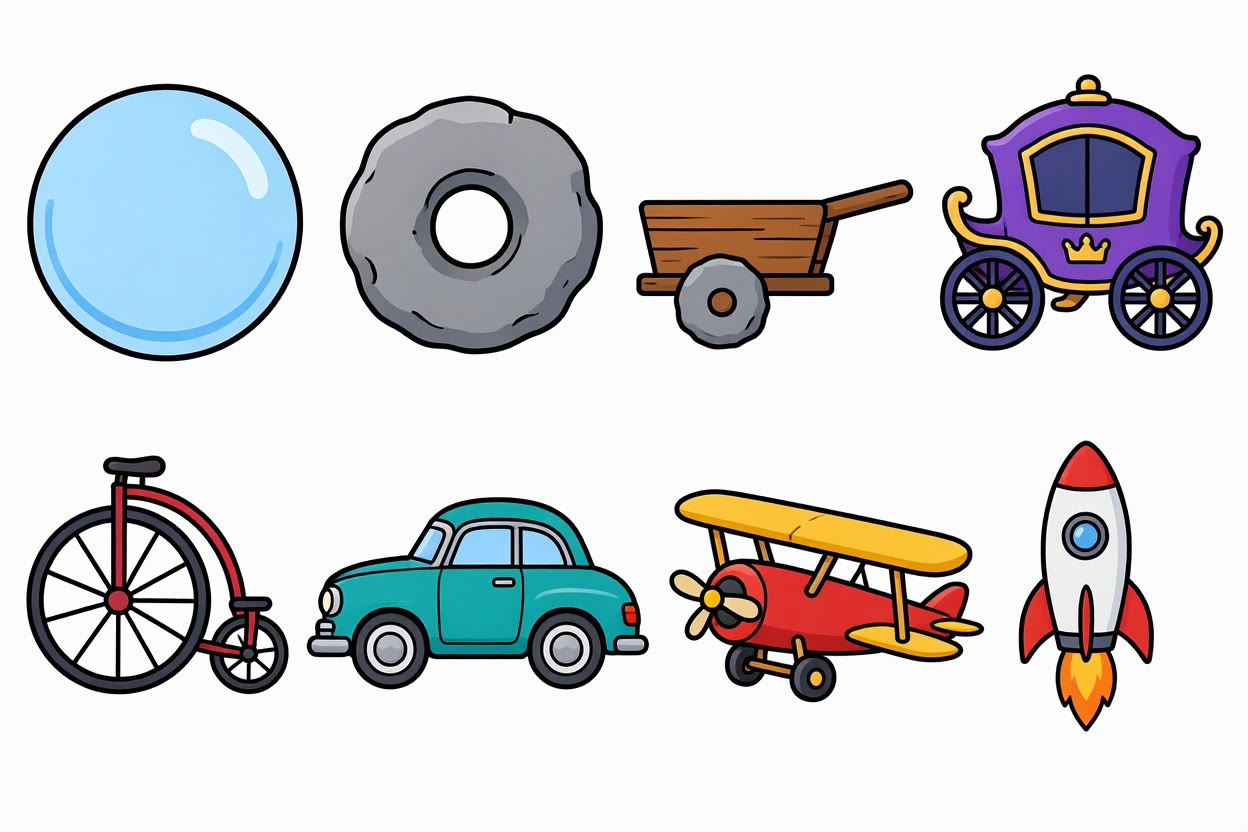
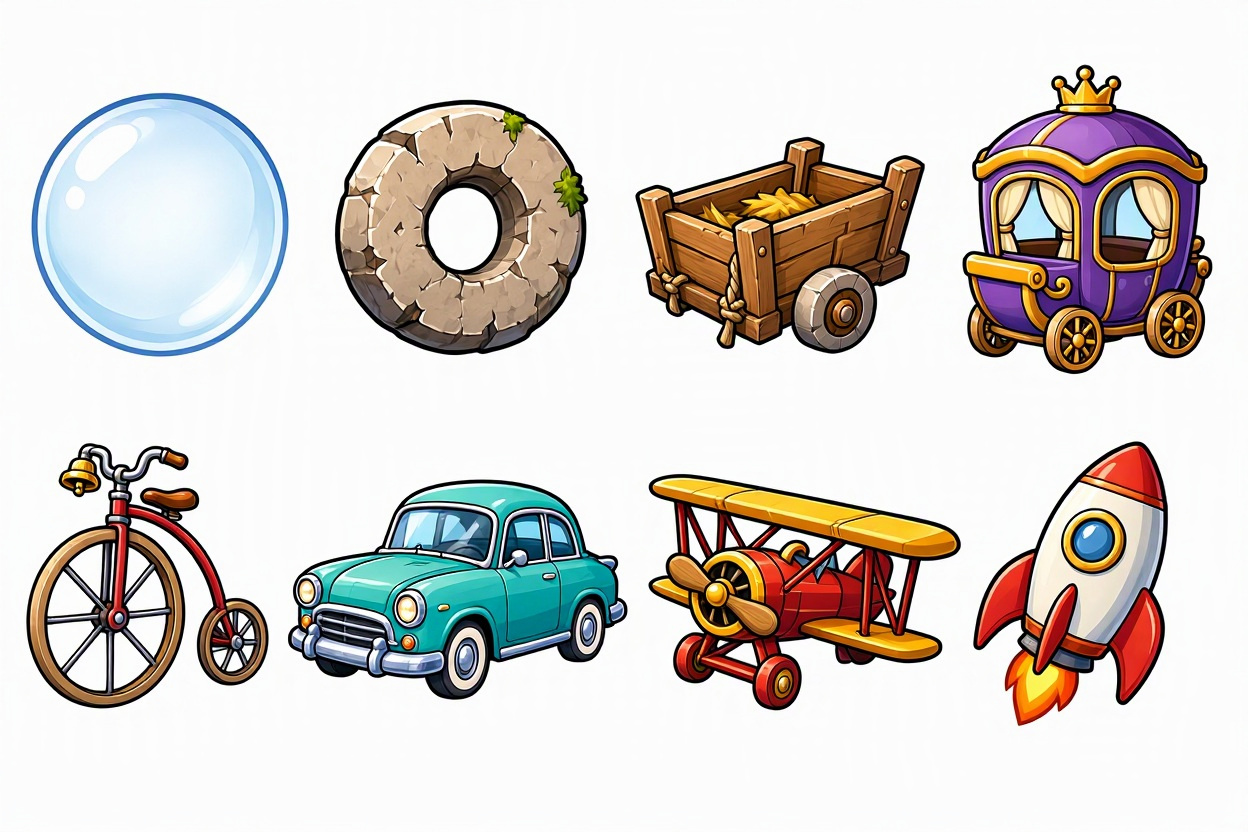
v0.1.210: new item art sheet, one-prompt item recipe

diff --git a/src/config.js b/src/config.js
@@ -3,7 +3,7 @@
 // Tiers are 0-based everywhere: 0 Wheel, 1 Cart, 2 Carriage, 3 Bicycle, 4 Car, 5 Plane, 6 Rocket.
 
 window.ERA_POP_CONFIG = {
-  version: '0.1.209',
+  version: '0.1.210',
 
   // ---- Capsule (world units; the capsule is scaled to fit the screen) ----
   capsule: {

diff --git a/art-prompts.md b/art-prompts.md
@@ -133,3 +133,32 @@ Then add that sheet's list below.
 - Keep the background pure white. The game removes near-white pixels that touch the background, so every character needs its dark outline.
 - Check the order before saving: the era's original first, then the six hybrids in job order (Caveman, Farmer, Knight, Gentleman, Greaser, Pilot, Astronaut, skipping the sheet's own job).
 - If a figure comes out touching its neighbor, regenerate. The slicer needs a white gap between all 7.
+
+---
+
+# Items: one sheet (`assets/sheets/items.jpg`)
+
+All 8 come from a single image, saved over `assets/sheets/items.jpg`. The game slices it into 2 rows of 4, in reading order: the empty bubble, then the 7 items by tier. No code change is needed. Any size works; 3:2 (for example 1536×1024) is ideal.
+
+> A sprite sheet of 8 game item icons for a chunky mobile merge game, in a bold cartoon style: thick dark outlines, rich cel shading with soft highlights, saturated colors, toy-like proportions, three-quarter view. Pure white background, no ground shadows, no text, no labels, no numbers.
+>
+> Layout: exactly 2 rows of 4 icons, evenly spaced on a wide 3:2 canvas, every icon about the same size, with clear white space between them. No icon touches another or the edge.
+>
+> Each icon is compact and rounded so it fits inside a circle. Each one should look bigger and fancier than the one before it.
+>
+> Top row, left to right:
+> 1. An empty glossy soap bubble: a perfect circle, pale and almost colorless with a light blue tint, a big curved white shine at the top left, nothing inside.
+> 2. A chunky prehistoric stone wheel with a round hole in the middle, chipped edges, cracks and a little moss.
+> 3. A small, stubby wooden hand cart with plank sides, one stone wheel, rope tied around it and straw inside.
+> 4. A royal carriage: a round purple body with gold trim, a small gold crown on top, curtained windows and four spoked wheels, compact and tall.
+>
+> Bottom row, left to right:
+> 5. A Victorian penny-farthing bicycle: a huge front wheel, a tiny back wheel, a red frame, a brass bell and a leather seat.
+> 6. A cute, bubbly 1950s car in teal with lots of chrome, white-wall tires, round headlights and tail fins.
+> 7. A 1920s biplane with a red body and yellow wings and a wooden propeller, seen from the front at an angle so it isn't too wide.
+> 8. A classic retro rocket in white and red, with fins, a round porthole window and a bright orange flame, tilted slightly.
+
+## Tips for items
+
+- If any two items touch, regenerate: the slicer needs white gaps between them.
+- The bubble is tinted a different color per tier in the game, so keep it pale and neutral.
